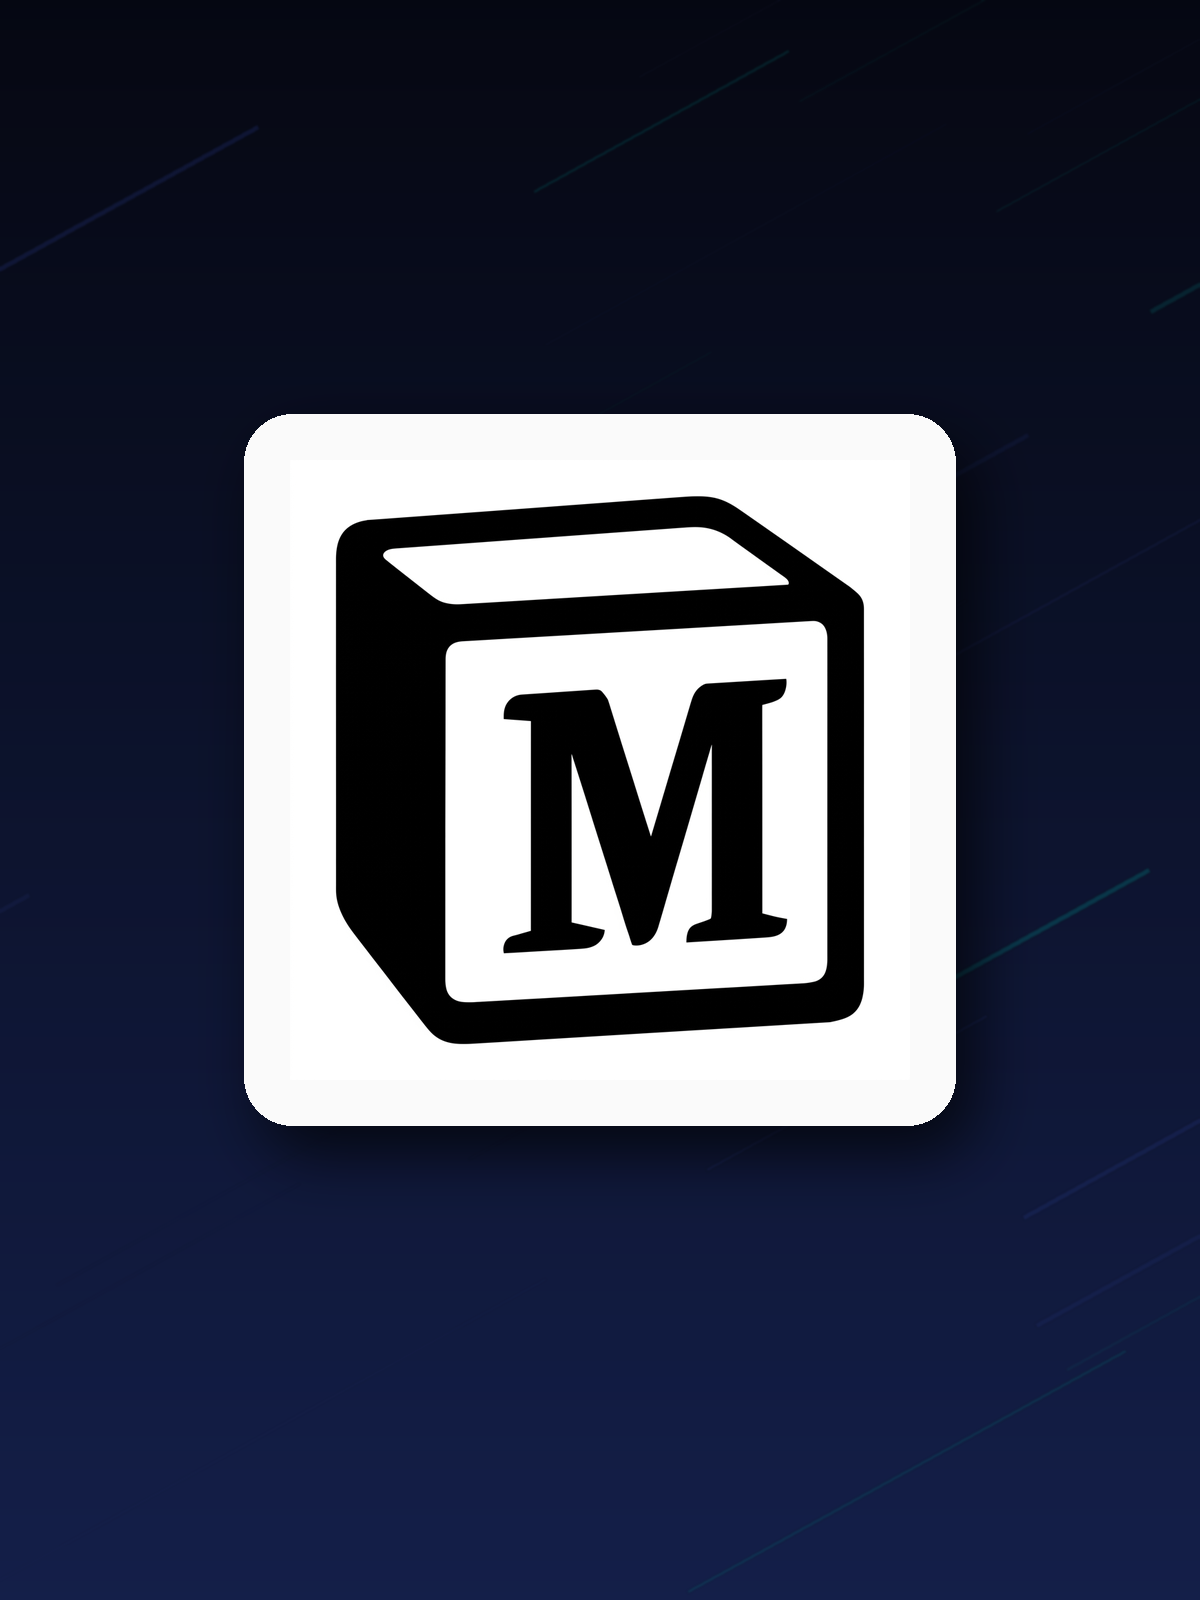
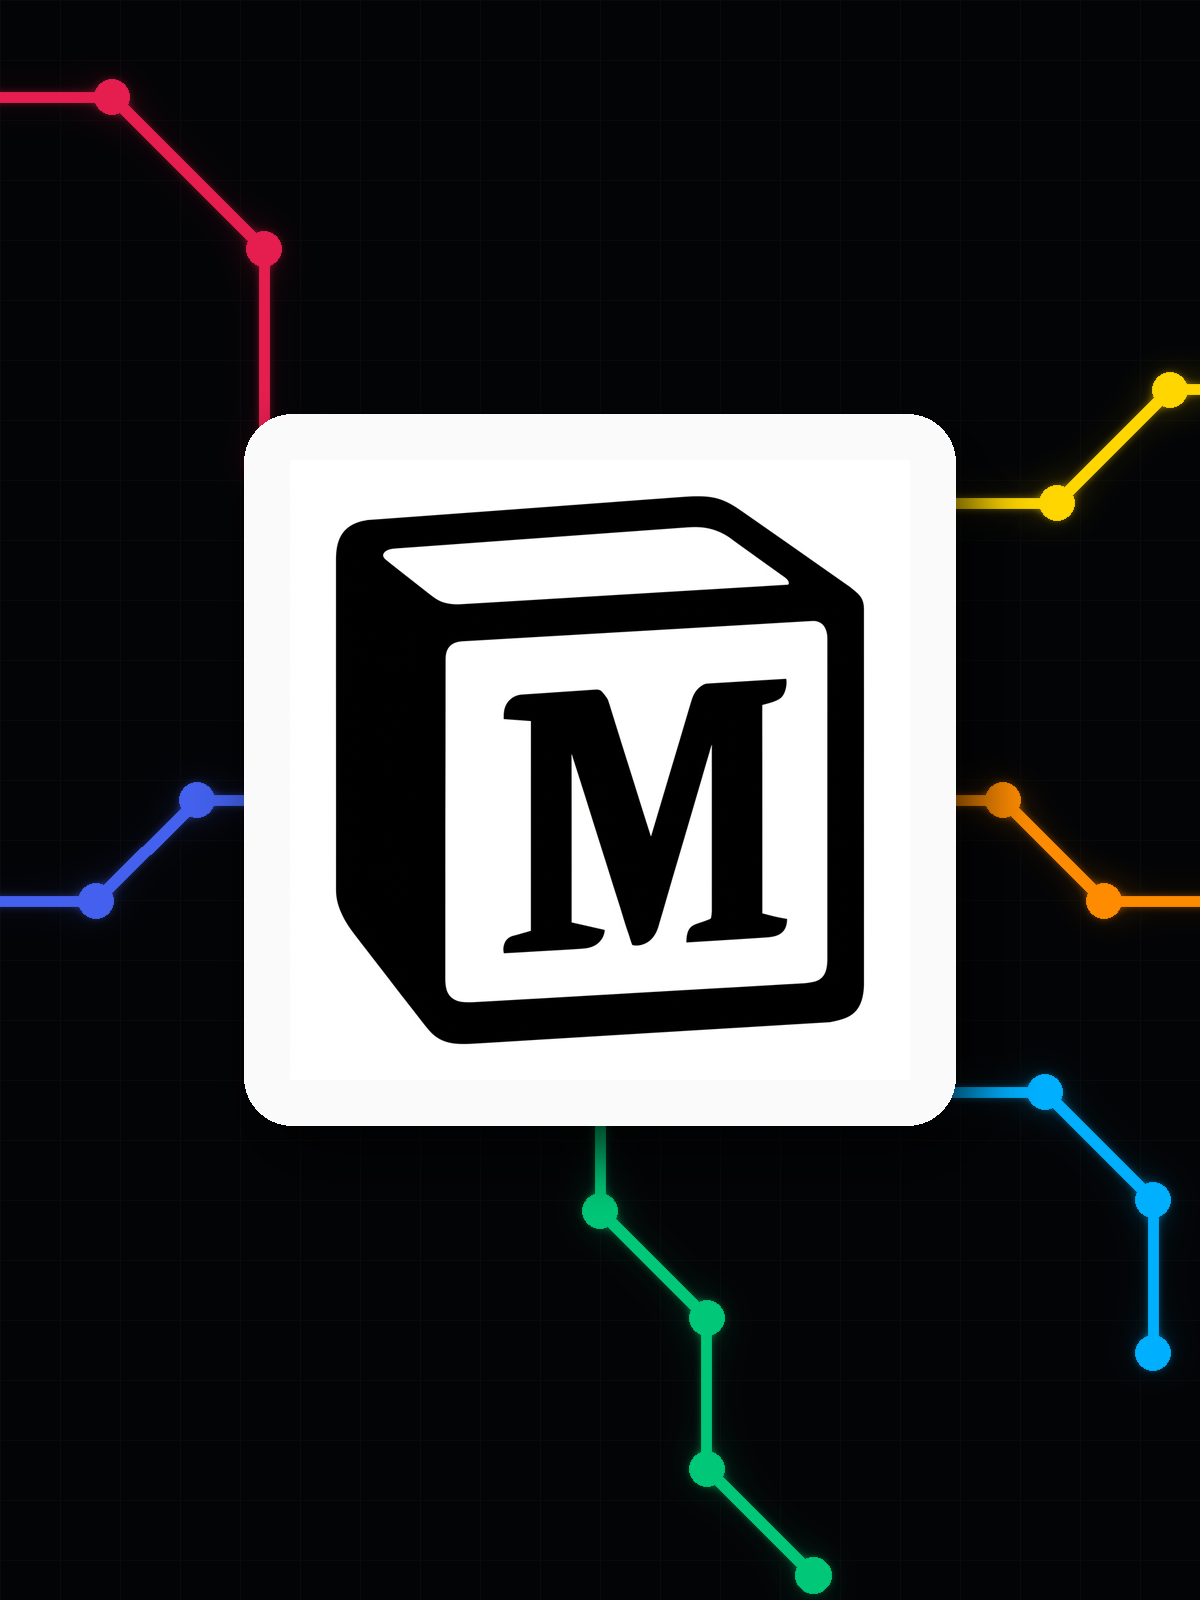
[Content] MNET Marketing Stuff

diff --git a/src/content/projects/mnet-notion.md b/src/content/projects/mnet-notion.md
@@ -1,0 +1,15 @@
+---
+title: "MNET x Notion"
+description: "MNET's website — a WebXR-flavoured Next.js site with a 3D cube hero, content pulled live from the team's Notion workspace."
+pubDate: "2026-07-04"
+githubUrl: "https://github.com/Monash-Emerging-Tech/web-nexus"
+demoUrl: "https://monashemerging.tech/"
+heroImage: "/projects/mnet-notion.png"
+tags: ["UI/UX", "web (backend)", "WebXR"]
+---
+
+MNET's website — a WebXR-flavoured Next.js site with a 3D cube hero, content pulled live from the team's Notion workspace.
+
+[View on GitHub](https://github.com/Monash-Emerging-Tech/web-nexus)
+
+[View Demo](https://monashemerging.tech/)

diff --git a/src/content/projects/mnet-team-login.md b/src/content/projects/mnet-team-login.md
@@ -1,0 +1,12 @@
+---
+title: "MNET Login Experience"
+description: "Animated gated entry for MNET's internal Team Services portal — a 3D cube unfolds through a checkerboard tunnel before granting access."
+pubDate: "2026-07-31"
+demoUrl: "https://team.monashemerging.tech/"
+heroImage: "/projects/mnet-team-login.gif"
+tags: ["UI/UX", "WebXR"]
+---
+
+Animated gated entry for MNET's internal Team Services portal — a 3D cube unfolds through a checkerboard tunnel before granting access.
+
+[View Demo](https://team.monashemerging.tech/)

diff --git a/src/content/projects/find-my-slipstream.md b/src/content/projects/find-my-slipstream.md
@@ -1,7 +1,7 @@
 ---
 title: "findMySlipstream"
 description: "an interactive D3 narrative visualisation mapping the Translation Gap between academic research and unicorn startups across 1,480 global cities, built for FIT5147 at Monash."
-pubDate: "2026-7-15"
+pubDate: "2026-06-20"
 heroImage: "/find-my-slipstream/cover.png"
 demoUrl: "https://find-my-slipstream.vercel.app/"
 tags: ["data visualisation", "UI/UX"]

diff --git a/src/content/projects/sleep-more.md b/src/content/projects/sleep-more.md
@@ -1,7 +1,7 @@
 ---
 title: "Fixing my Sleep Cycle using my Sleep Data"
 description: "a UI/UX and data visualisation deep-dive into what my sleep data reveals."
-pubDate: "2026-5-4"
+pubDate: "2026-06-11"
 heroImage: "/fixing-my-sleep-cycle/sleepWakeUpSanky.gif"
 demoUrl: "/blog/fixing-my-sleep-cycle-using-my-sleep-data"
 tags: ["data visualisation"]
